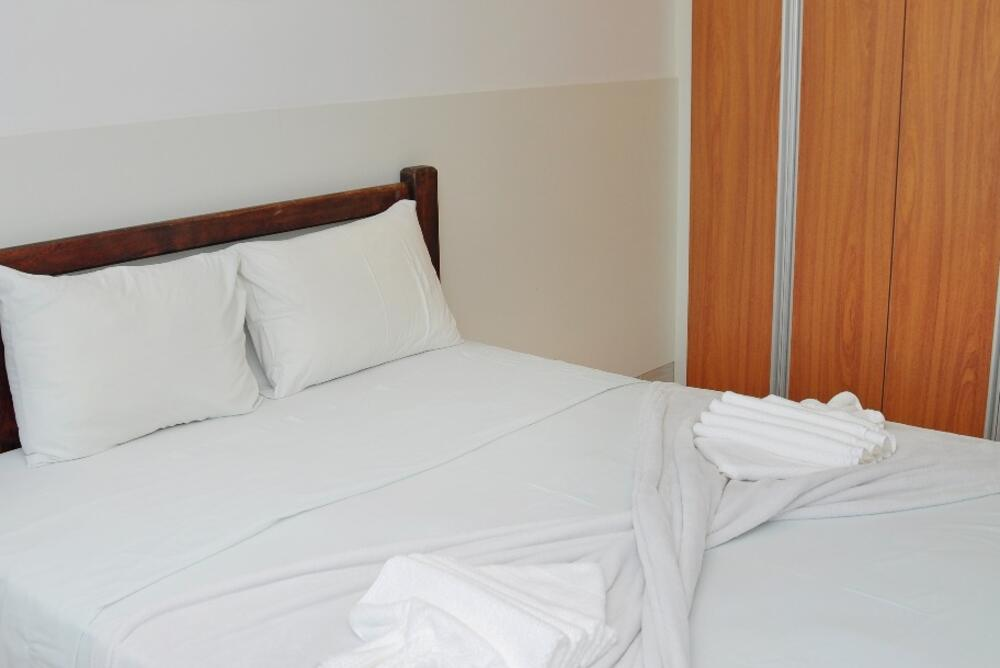
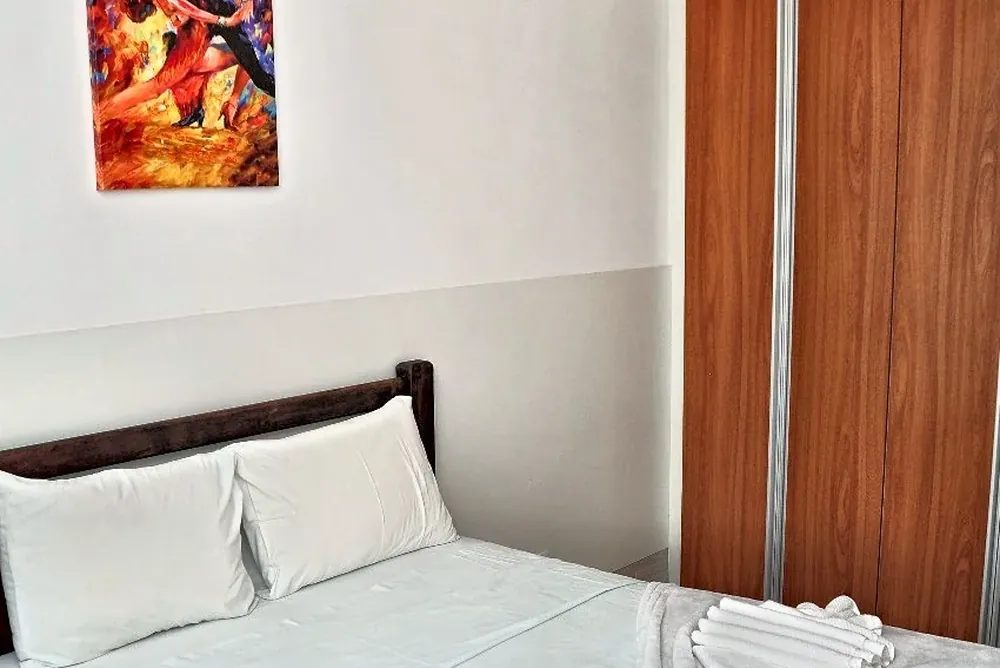
Conserta a foto que abria diferente da miniatura na home
O lightbox fazia lightboxImg.src = img.src. Dentro de um <picture>, img.src
devolve o arquivo de RESERVA (o .jpg), nao o .webp que o navegador exibiu.
Como eu tinha trocado so os .webp pelas fotos novas, a miniatura mostrava o
apartamento com freijo e o lightbox abria o antigo, todo branco.
Agora usa currentSrc, que devolve a versao realmente escolhida.

Regerei tambem quarto-casal.jpg e cozinha-02.jpg a partir dos webp novos:
eram reserva referenciada no HTML e continuavam mostrando o movel branco.

diff --git a/index.html b/index.html
@@ -1516,9 +1516,12 @@ document.querySelectorAll('.nav-links a').forEach(a => {
 });
 
 // Lightbox
+// [24/08/2026] Era img.src, que dentro de um <picture> devolve o arquivo de RESERVA
+// (o .jpg antigo) e nao o .webp que o navegador de fato exibiu. Resultado: a miniatura
+// mostrava a foto nova e o lightbox abria a antiga. currentSrc devolve a escolhida.
 document.querySelectorAll('.gallery-item img, .condo-item img').forEach(img => {
     img.addEventListener('click', () => {
-        document.getElementById('lightboxImg').src = img.src;
+        document.getElementById('lightboxImg').src = img.currentSrc || img.src;
         document.getElementById('lightbox').classList.add('active');
     });
 });
